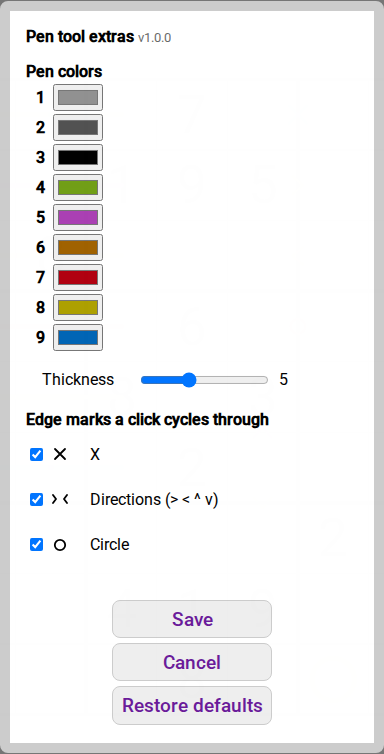
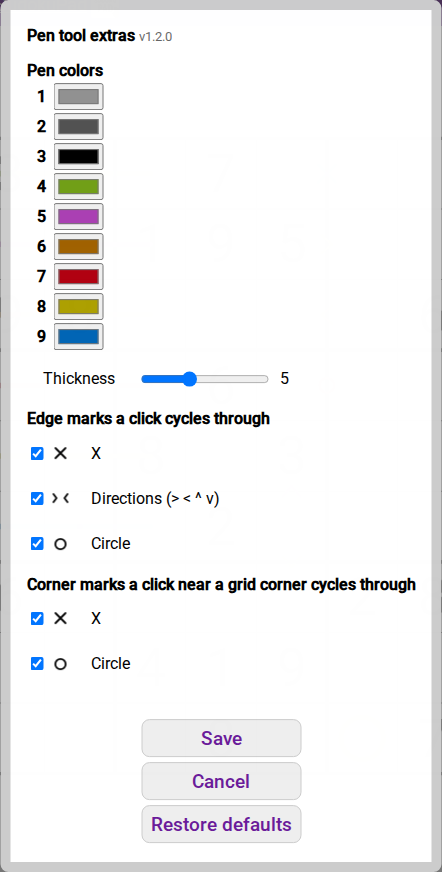
Pen Tool Extras corner marks: README, site, glossary, research note, pictures (#58)
Closes #58

diff --git a/site/index.html b/site/index.html
@@ -58,7 +58,7 @@
     <img src="https://raw.githubusercontent.com/caneff/sudokupad-scripts/main/docs/research/site-pen-tool-extras.png" alt="Colored pen lines beside arrows, circles and crosses on cell edges" width="253" height="218">
     <div>
       <h2>Pen Tool Extras</h2>
-      <p>Makes the pen's nine colors match your cell colors, a little darker, and sets how thick its lines and edge marks are with one slider. Click a cell edge with the pen to cycle an X, two arrows and a circle; right click goes back. It leans on SudokuPad internals, so an update can break it. Turn the pen tool on in SudokuPad's settings first. It replaces Pen Color and Edge Marks, which you remove by hand.</p>
+      <p>Makes the pen's nine colors match your cell colors, a little darker, and sets how thick its lines and edge marks are with one slider. Click a cell edge with the pen to cycle an X, two arrows and a circle, or click near a grid corner to cycle an X and a circle; right click goes back. It leans on SudokuPad internals, so an update can break it. Turn the pen tool on in SudokuPad's settings first. It replaces Pen Color and Edge Marks, which you remove by hand.</p>
       <p><a class="install" href="https://raw.githubusercontent.com/caneff/sudokupad-scripts/main/pen-tool-extras.user.js">Install Pen Tool Extras</a></p>
     </div>
   </section>

diff --git a/README.md b/README.md
@@ -8,7 +8,7 @@ Install [Tampermonkey](https://www.tampermonkey.net/), then open a script's link
 
 - [Color by Digit](https://raw.githubusercontent.com/caneff/sudokupad-scripts/main/color-by-digit.user.js): adds a button that colors every cell holding a digit, and every empty cell whose centre marks all belong to one group, using groups of palette colors set in a settings dialog.
 - [Digit Color](https://raw.githubusercontent.com/caneff/sudokupad-scripts/main/digit-color.user.js): colors the digits themselves, one color per digit, in entered digits, corner marks and centre marks. Starts from default colors; change them in a settings dialog. Givens keep their color; a conflicting mark keeps its digit color and gets a small red circle behind it.
-- [Pen Tool Extras](https://raw.githubusercontent.com/caneff/sudokupad-scripts/main/pen-tool-extras.user.js): three things for the pen tool, in one settings dialog. **Colors:** changes the pen's nine colors. Strokes already drawn and the tool's color buttons change with them. With nothing saved, the nine pen colors are your current cell color page, darkened, each pen on the same button number as its cell color (pen 1 takes the page's color on button 1, and so on; button 0 is not used), with the darkest grey turned black, so installing changes the pen colors straight away; a cell color that is transparent or unreadable leaves SudokuPad's own pen color on that button; edit and Save to keep your own. Holding a pen color button for a second (with either mouse button) puts a color picker over each button, as the cell color tool does: click one to open the picker, and the pen changes live and the set is saved; hold again, or leave the pen tool, to close them. The colors are read when the page loads, so changing cell colors later does not move the pen until the next load. **Thickness:** one slider (1 to 12; SudokuPad's own pen line is 5) scales pen lines, the pen's cell circles and crosses, and the edge marks together: at 5 everything draws at its usual width, and moving the slider changes each by the same factor. It previews live, Cancel undoes it, and saving a thickness does not turn the colors into a saved set. **Edge marks:** adds direction arrows (`>` `<` on a vertical edge, `^` `v` on a horizontal one) and a circle (a small open ring; a dot saved by an earlier version draws as the circle) to the pen tool's marks on a cell edge. Clicking an edge cycles through the marks ticked in the dialog, each shown with a small picture; the pen tool's own X is one of them. A right click on an edge steps the same cycle backwards (from empty to the last ticked mark, from the X to empty) and keeps the browser's menu closed there; a right click anywhere else keeps its menu. Touch has no right click, so it only steps forward. These wrap SudokuPad's pen tool and renderer, which are internals, so a SudokuPad update can break them, and the edge marks are then left off while the colors and thicknesses still work. Restore defaults goes back to the darkened page and the default thickness. Turn the pen tool on in settings first. It replaces Pen Color and Edge Marks: installed copies of those two stop updating, so remove them by hand in Tampermonkey; your saved colors and edge marks carry over.
+- [Pen Tool Extras](https://raw.githubusercontent.com/caneff/sudokupad-scripts/main/pen-tool-extras.user.js): three things for the pen tool, in one settings dialog. **Colors:** changes the pen's nine colors. Strokes already drawn and the tool's color buttons change with them. With nothing saved, the nine pen colors are your current cell color page, darkened, each pen on the same button number as its cell color (pen 1 takes the page's color on button 1, and so on; button 0 is not used), with the darkest grey turned black, so installing changes the pen colors straight away; a cell color that is transparent or unreadable leaves SudokuPad's own pen color on that button; edit and Save to keep your own. Holding a pen color button for a second (with either mouse button) puts a color picker over each button, as the cell color tool does: click one to open the picker, and the pen changes live and the set is saved; hold again, or leave the pen tool, to close them. The colors are read when the page loads, so changing cell colors later does not move the pen until the next load. **Thickness:** one slider (1 to 12; SudokuPad's own pen line is 5) scales pen lines, the pen's cell circles and crosses, and the edge marks together: at 5 everything draws at its usual width, and moving the slider changes each by the same factor. It previews live, Cancel undoes it, and saving a thickness does not turn the colors into a saved set. **Edge marks:** adds direction arrows (`>` `<` on a vertical edge, `^` `v` on a horizontal one) and a circle (a small open ring; a dot saved by an earlier version draws as the circle) to the pen tool's marks on a cell edge. Clicking an edge cycles through the marks ticked in the dialog, each shown with a small picture; the pen tool's own X is one of them. A right click on an edge steps the same cycle backwards (from empty to the last ticked mark, from the X to empty) and keeps the browser's menu closed there; a right click anywhere else keeps its menu. Touch has no right click, so it only steps forward. **Corner marks:** a click within 0.2 of a cell of a grid corner, inner or outer, cycles an X, then a circle, then empty (a right click goes backwards, and keeps the browser's menu closed there); there are no arrows, since a corner has no edge direction. The same two boxes in the dialog turn each on or off, with a picture each, and with both off a click near a corner is SudokuPad's own edge click again. A corner shared by four cells is one mark. Corner marks are half the Thickness slider, like edge marks, and are saved in the same place as the edge marks settings (data saved by an earlier version reads as both boxes ticked). These wrap SudokuPad's pen tool and renderer, which are internals, so a SudokuPad update can break them, and the edge and corner marks are then left off while the colors and thicknesses still work. Restore defaults goes back to the darkened page and the default thickness. Turn the pen tool on in settings first. It replaces Pen Color and Edge Marks: installed copies of those two stop updating, so remove them by hand in Tampermonkey; your saved colors and edge marks carry over.
 - [Dark Page](https://raw.githubusercontent.com/caneff/sudokupad-scripts/main/dark-page.user.js): makes the page black around the puzzle, or another color you pick in a settings dialog (a color picker, and a Black button to go back); the choice is kept and applies without a reload, and the page's own text turns dark on a light color. On a dark color the control buttons go dark gray with light purple icons; on a light one they stay as SudokuPad draws them. A rectangle bounding everything the puzzle draws, and the cells you write in, stays as SudokuPad renders it. Not SudokuPad's dark mode.
 - [No Tab Letters](https://raw.githubusercontent.com/caneff/sudokupad-scripts/main/no-tab-letters.user.js): stops Tab from toggling SudokuPad's letter mode. SudokuPad binds both `/` and Tab to the letter toggle and saves the mode, so a stray Tab left the number pad on letters after a refresh. This replaces only the Tab binding's handler in the letter tool with one that does nothing, so during play Tab does what it did before minus the toggle (focus stays where it is), the letter button and `/` still toggle, and Tab still moves focus in dialogs. It works whenever you turn the letter tool on in settings. It has no settings entry or dialog. If a SudokuPad update changes what it hooks (the letter tool or its Tab binding to the toggle), it logs a warning in the browser console and changes nothing.
 

diff --git a/docs/research/sudokupad-pen-edge-marks.md b/docs/research/sudokupad-pen-edge-marks.md
@@ -51,3 +51,34 @@ edge marks. Only the result text was read.
   `#control-normal` button; the grid is drawn in `#svgrenderer`.
 - Not run: Windows, where `contextmenu` follows the release (after `clickCell`). The same
   `inputPos` is still the point hit-tested, so the code should hold there.
+
+## Grid-corner marks, 2026-11-03 (v0.611.0, `tool-pen.js`, `script.js`; run on the page in `live/pen-tool-extras-marks.live.mjs`)
+
+- `clickCell` has no corner case. It floors `getInputRc()` (the pointer in cell units from the
+  grid's top left) to a cell, picks the nearer side by `|dx| >= |dy|`, and takes an edge mark when the
+  distance to that side's midpoint is under 0.75 of the distance to the cell middle and at most 1.0.
+  At a corner the first is 0.5 against 0.707 × 0.75 = 0.53, so a click exactly on a corner is an edge
+  mark, and the edge zone reaches 0.57 along a side from the midpoint, past the corner.
+- Pen values are lowercased on undo and replay: `propSet` and `propUnset` do `val.toLowerCase()`, and
+  `Replay.actC2A` lowercases the whole action. So an added value has to be a lowercase letter or digit;
+  uppercase would come back as another value. SudokuPad's own stop at `g`, the edge marks use `h` to `s`,
+  and `0` clears, which leaves `t` to `z`: seven values.
+- A mark on one of the grid's 100 corners (9 x 9) is stored on one cell. Four kinds of cell position would
+  need eight values, so three kinds are used, two characters each (X, circle): `u`/`x` the bottom right
+  of a cell (every corner with a cell up and left of it, so inner corners and the right and bottom outer
+  corners are stored once), `t`/`w` the top left (the top row and left column), and `v`/`y` for the two
+  corners left, the top right (on the cell in the top row's last column) and the bottom left (on the cell in
+  the bottom row's first column). `z` is unused.
+- Corner zone: 0.2 of a cell by distance, checked before SudokuPad's test. Edge midpoints (0.5 away) and
+  cell middles (0.71) are outside it; an edge click 0.3 or more from a corner is still the edge mark.
+  A point just outside the grid counts too, so the outer corners can be clicked.
+- Run on the page: clicks at the pixel of each inner and outer corner cycle X, circle, empty and back, one
+  undo per click; `getReplay()` holds `pe:u/0` and a replay loads them again; a reload of the page keeps
+  them; the mark's centre is within 1 px of the corner.
+- Dark Page's kept rectangle: an X centred on an outer corner reaches 8 units (plus half the stroke) past the
+  cell box on two sides, the same as an edge X reaches past an outer edge, so it is inside `SOLVER_REACH`
+  (checked on all four outer corners at the default thickness).
+- A click on a dialog button that lands over the grid with the pen tool on can leave a pen mark under it
+  (seen in the live test: a click on a checkbox left a cell circle). Not fixed here.
+- Pictures: `pen-tool-extras-corners-grid.png`, `pen-tool-extras-corners-dialog.png`
+  (`pen-tool-extras-corners-screenshot.mjs`).

diff --git a/GLOSSARY.md b/GLOSSARY.md
@@ -32,9 +32,20 @@
 - **edge cycle** — the order a left click on an edge steps through its marks: X,
   first direction, second direction, circle, empty, skipping any type unticked in
   the settings dialog. A right click steps the same cycle backwards.
+- **grid-corner mark** — a pen mark Pen Tool Extras draws centred on a corner of the grid, inner or outer: an
+  X or a circle, the same shapes as the edge marks. The dialog calls the group "Corner marks"; SudokuPad's own
+  "corner marks" are the small digits in a cell's corners, which this is not. Stored as one character in the pen
+  value of one cell: a corner with a cell up and left of it is the bottom right of that cell, so a shared corner
+  is stored once; the rest are stored on the top left of the cell they touch, except the grid's top right and
+  bottom left corners.
+- **corner zone** — the part of a cell within 0.2 of a cell (by distance) of a grid corner. A click there is a
+  grid-corner mark click, decided before SudokuPad's own edge-or-cell test; with both Corner marks boxes unticked
+  there is no corner zone.
+- **corner cycle** — the order a left click in a corner zone steps through: X, circle, empty, skipping an unticked
+  type. A right click steps it backwards.
 - **thickness** — the one slider setting the stroke width of the pen's free lines, the cell circle and
-  cross (pen values 5 and 6) and every edge mark, from 1 to 12, saved under `PenColor_thickness`.
-  SudokuPad's own is 5, which is the default; an edge mark (the edge X, an arrow, the edge circle)
+  cross (pen values 5 and 6) and every edge mark and grid-corner mark, from 1 to 12, saved under `PenColor_thickness`.
+  SudokuPad's own is 5, which is the default; an edge mark (the edge X, an arrow, the edge circle) and a grid-corner mark
   is always half of it, so every width scales by one factor.
 - **page color** — the color Dark Page paints the page outside the kept rectangle: black until a solver picks
   another in the Dark page dialog, saved under `DarkPage_color`. The page's own text is light or dark, whichever contrasts more
